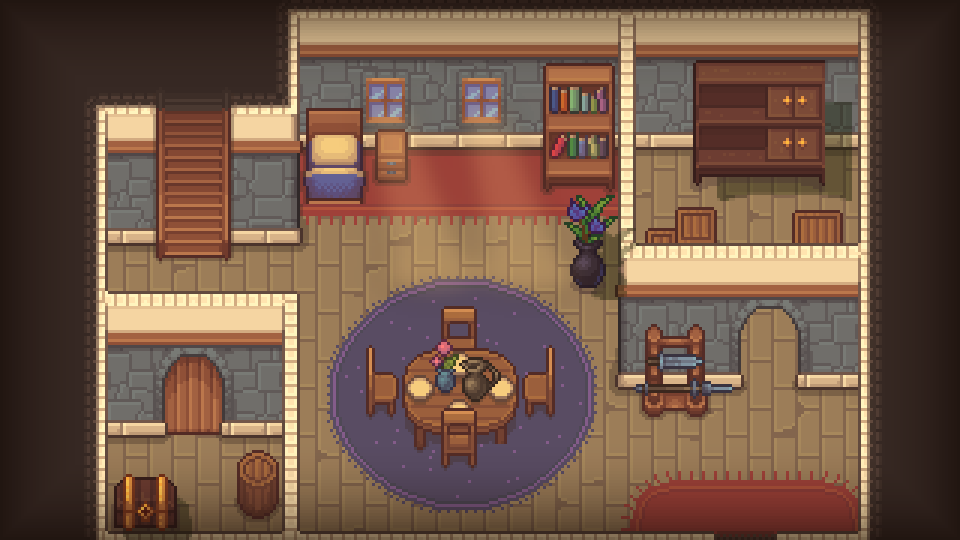
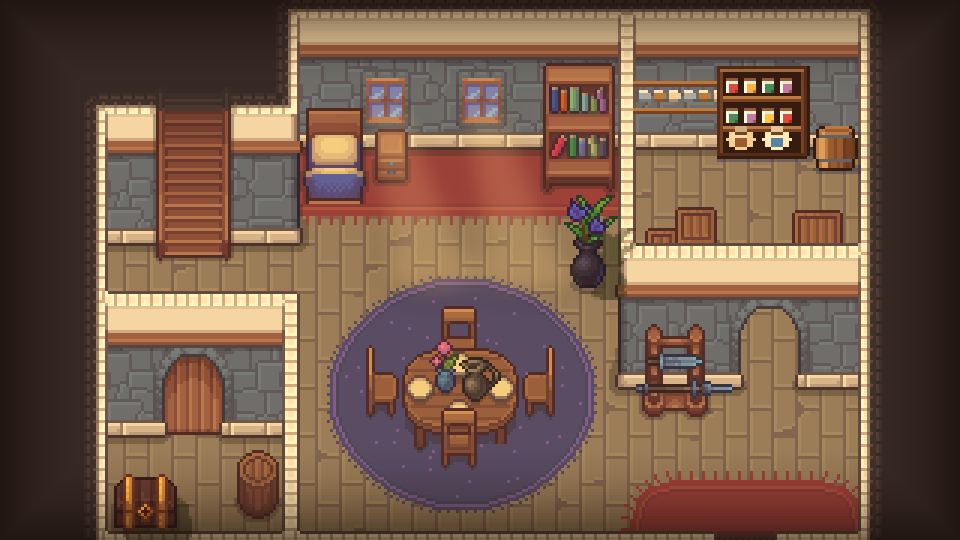
Kitchen: Frostbrook shelf with jars, wall mug rack, barrel (explicit license)

Changed region(s): [[0.6562, 0.0889, 0.9062, 0.3852]]

diff --git a/design-doc/ai-generated/assets.md b/design-doc/ai-generated/assets.md
@@ -11,3 +11,6 @@
 | v3_hero (Max, ребёнок) | Classic RPG Walking Characters Vol.1 Free Sampler, kovcrewq41 (itch.io), npc_boy | free, коммерция OK |
 | v3_brezel (бордер-колли) | Top-Down Mobs Dog, Admurin (itch.io), перекраска в чёрно-белый | free, коммерция OK, без перепродажи |
 | v3_room_bg | craftpix Main Character's Home, карта Interior1.tmx художника (наши правки: убраны висящие вещи) | craftpix free license |
+| кухня в room_bg (полка с банками, полка с кружками, бочка) | Frostbrook Town Interiors Free Sample, Chucky Assets (itch.io) | личное и коммерческое OK, правки OK, файлы не распространять, не для обучения ИИ |
+
+Правило выбора: берём только паки с явной лицензией. Medieval Free Pack (a-something) без лицензии на странице — не используем.
